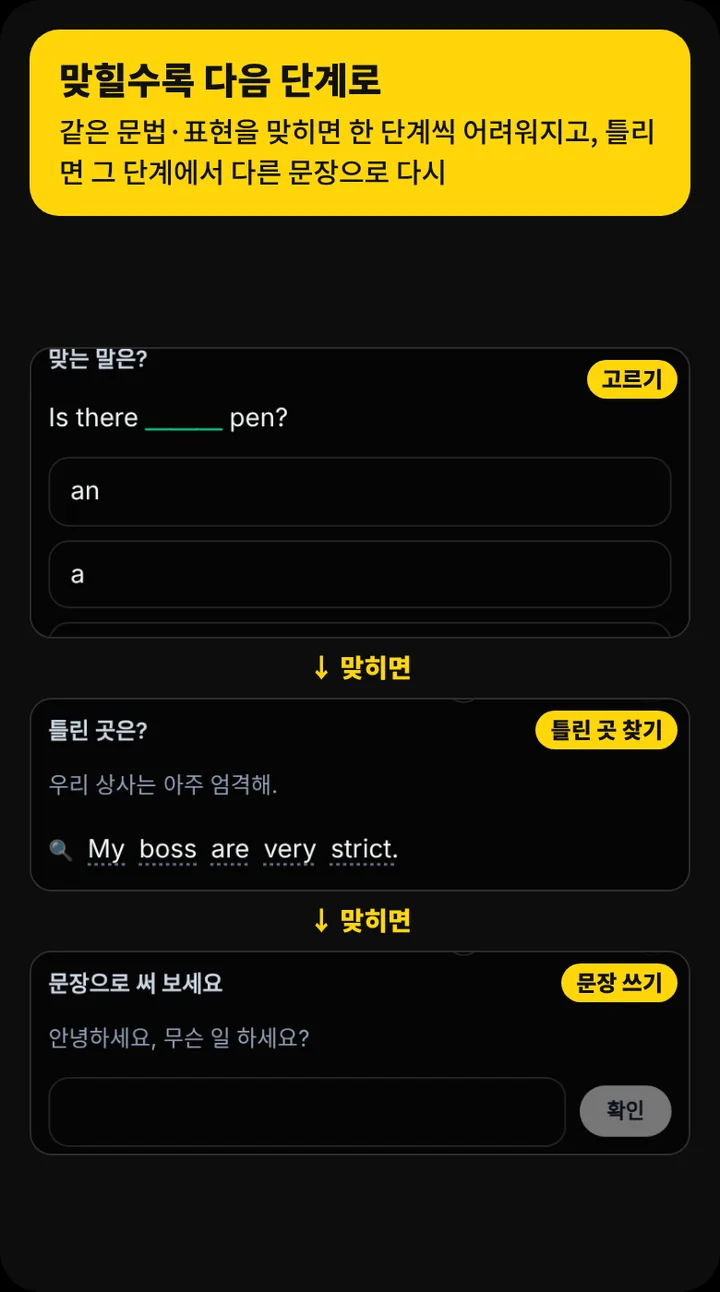
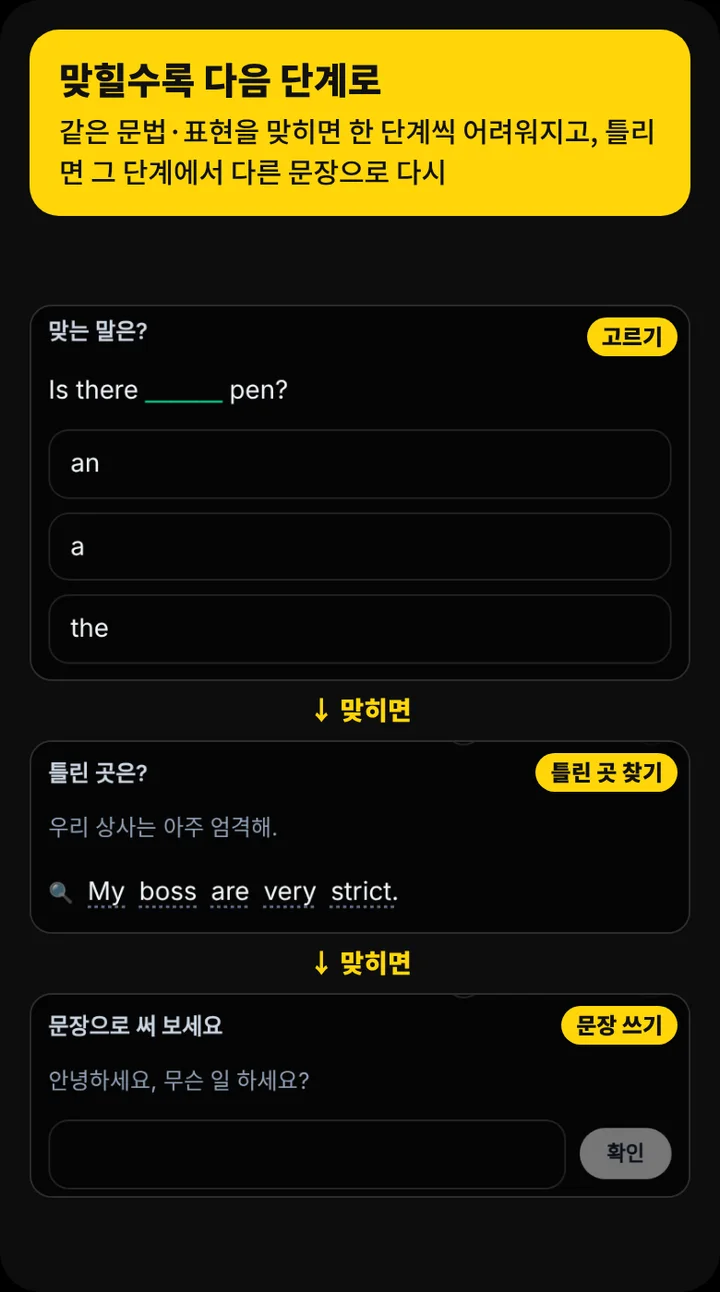
사용법 장면: 고르기 그림이 잘려 보이던 것 고침
Claude-Session: https://claude.ai/code/session_01R73CvM9KixbeDipuoQjmvv

diff --git a/hub/chat/log/2026-11.md b/hub/chat/log/2026-11.md
@@ -2954,3 +2954,4 @@
 - 광고 안: 6개(새 화면은 넣지 않음 기록으로 합침, 지금 +486,562 → +522,764원/1,000명·월), 알림 없음. 화면 점검은 오늘 이미 돌아 건너뜀
 - 구조: 변화 없음
 - 옛 것: 없음
+- 고침(같은 날): Quizbank "맞힐수록 다음 단계로" 장면의 고르기 그림이 위(물음)·아래(셋째 보기)가 잘려 보여 자르는 범위를 넓힘(compose LAYOUT).
